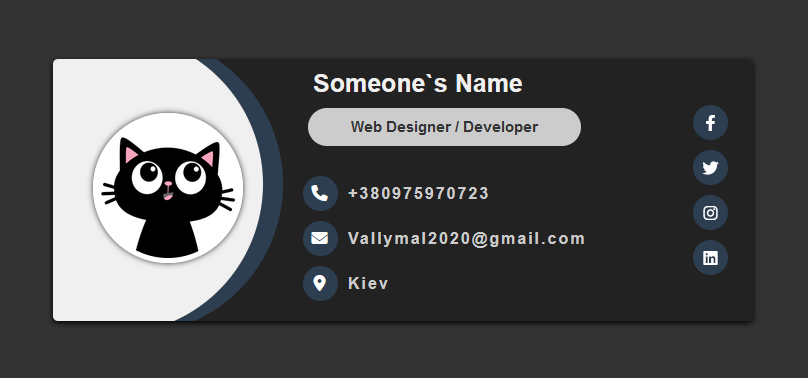
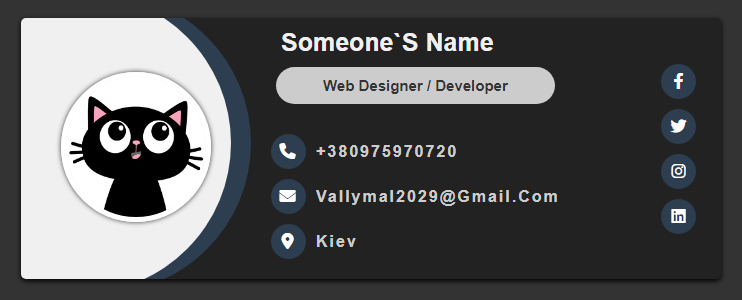
new

diff --git a/index.html b/index.html
@@ -21,8 +21,8 @@
             <h1 class="name">someone`s name</h1>
             <h3 class="post">web designer / developer</h3>
             <ul class="contact">
-                <li><i class="fas fa-phone"></i>+380975970723</li>
-                <li><i class="fas fa-envelope"></i>vallymal2020@gmail.com</li>
+                <li><i class="fas fa-phone"></i>+380975970720</li>
+                <li><i class="fas fa-envelope"></i>vallymal2029@gmail.com</li>
                 <li><i class="fas fa-map-marker-alt"></i>Kiev</li>
             </ul>
 
